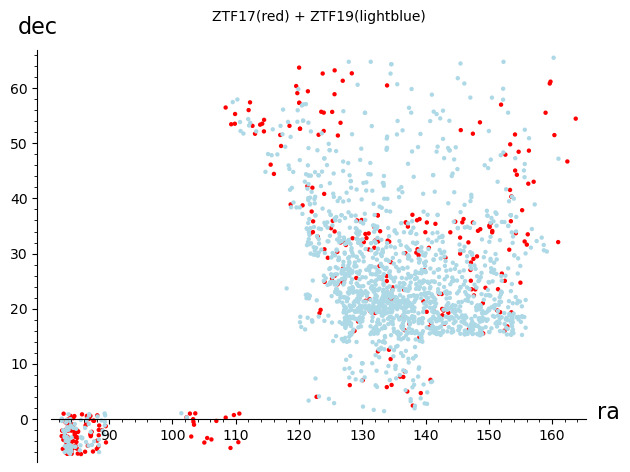
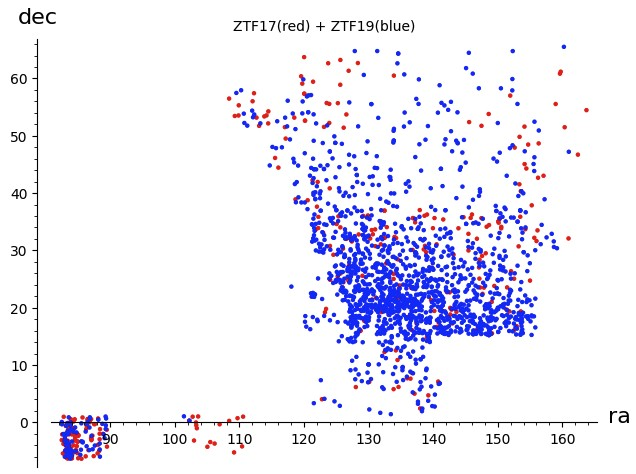
adding Gremlin client

diff --git a/src/index.html b/src/index.html
@@ -15,6 +15,7 @@
 
 <h2><a href="http://134.158.74.221:8080/FinkBrowser/?profile=ijclab&style=simple">Prototype running @IJCLab</a> (under development)</h2>
 <h2><a href="https://docs.google.com/presentation/d/1UYgqtNFuKWPObPGT4O81EOTkQ7F5_BaOiBp34Dw3yWk/edit?usp=sharing">What is it ?</a> (presentation)</h2>
+<hr/>
 
 <h2>Documentation</h2>
 
@@ -30,7 +31,7 @@
     <a href="http://www.jython.org">Jython</a> (for Jython client, optional),
     <a href="http://www.jpype.org">JPype</a> (for CPython client, optional),
     <a href="http://sagemath.org">Sage</a> (to perform math analyses, optional),
-    <a href="http://mathplotlib.org">Mathplotlib</a> (to perform math analyses, optional)</li>
+    <a href="http://matplotlib.org">MatPlotLib</a> (to perform math analyses, optional)</li>
 <li>Tools:
     <a href="https://ant.apache.org">Ant</a>,
     <a href="http://www.java2html.com">J2H</a>,
@@ -41,6 +42,7 @@
     <a href="https://code.google.com/archive/p/apiviz">ApiViz</a>,
     <a href="https://github.com/clarkware/jdepend">JDepend</a></li>
 </ul>
+<hr/>
 
 <h2><a name="Graph">Graph Schema</a></h2>
 Initial Graph contains:
@@ -49,6 +51,7 @@ AstroLabNet -has&gt; site -holds&gt; AlertsCollection -contains&gt; alert
 similarity -satr&gt; alert
 alert -exactmatch&gt; alert
 </pre>
+<hr/>
 
 <h2><a name="WebService">Web Service</a></h2>
 <table>
@@ -67,10 +70,12 @@ alert -exactmatch&gt; alert
 <li><tt>profile</tt> for initial calls (<tt>null, test, local, ijclab</tt>)</li>
 <li><tt>style</tt> for pane setup (<tt>null, test, simple</tt>)</li>
 </ul>
+<hr/>
 
 <h2><a name="CLI">Command Line</a></h2>
 Command line (executable Java) can be downloaded from the repository:
 <a href="http://cern.ch/hrivnac/Activities/Packages/FinkBrowser.exe.jar">FinkBrowser.exe.jar</a>.
+It serves as a foundation for all clients.
 <pre style="color:blue; font-size:60%; background-color:#eeeeee">
 $ java -jar FinkBrowser.exe.jar -h
 usage: java -jar Lomikel.exe.jar
@@ -82,7 +87,83 @@ usage: java -jar Lomikel.exe.jar
 </pre>
 It allows <a href="https://beanshell.github.io">BeanShell</a>/Java scripting, with Python and <a href="http://sagemath.org">SageMath</a> interface. 
 <br/>
+<h3>Access to HBase</h3>
 <u><b><a href="https://github.com/hrivnac/FinkBrowser/blob/master/src/bsh/testHBaseClient.bsh">BeanShell/Java example</a>:</b></u>
+<pre style="color:blue; font-size:60%; background-color:#dddddd">
+// Connect to HBase table
+//HBaseClient client = new HBaseClient("localhost", 2181);
+HBaseClient client = new HBaseClient("134.158.74.54", 2181);
+client.connect("test_portal_tiny.3", "schema_0.7.0_0.3.6");
+client.setLimit(100);
+
+// Get two known alerts (just one column) 
+// get 'test_portal', 'ZTF19aaoxpad_2458789.034838_152.294655_48.3441663', {COLUMNS => 'i:candid'}
+results = client.scan("ZTF17aaaaxyd_2458789.0426273,ZTF17aaaajdq_2458789.0297801",
+                      null,
+                      "i:candid,b:cutoutScience_stampData",
+                      0,
+                      false,
+                      false);
+print(client.results2String(results)); 
+
+// Get binary cell
+print(client.repository().get("binary:ZTF17aaaaxyd_2458789.0426273:cutoutScience_stampData"));
+
+
+// Get all alerts with row starting with 'ZTF19'
+// scan 'test_portal', {FILTER => "(PrefixFilter ('ZTF17'))", COLUMNS => 'i:candid', STARTROW => 'ZTF19', LIMIT => 10}
+// scan 'test_portal', {ROWPREFIXFILTER => 'ZTF19', COLUMNS => 'i:candid', LIMIT => 10}
+results = client.scan(null,
+                      "key:key:ZTF17",
+                      "i:candid",
+                      0,
+                      true,
+                      true);
+print(client.results2String(results)); 
+
+// Get timeline dependece of i:dec
+results = client.timeline("i:dec");
+print(client.results2String(results)); 
+
+// Get all recent (last 100000 minutes) objectIds
+results = client.latests("i:objectId",
+                         null,
+                         100000,
+                         true);
+print(results); 
+
+// Apply formula to filter results
+client.setEvaluation("isWithinGeoLimits(80, 85, -4.0, 0.0)", "ra,dec");
+//client.setEvaluation("dec < 10");
+results = client.scan(null,
+                      null,
+                      null,
+                      0,
+                      false,
+                      false);
+print(client.results2String(results)); 
+
+client.close();
+</pre>
+<u><b><a href="https://github.com/hrivnac/FinkBrowser/blob/master/src/python/testHBaseClient.jy">Jython example</a> (needs <a href="http://www.jython.org">Jython</a>):</b></u>
+<pre style="color:blue; font-size:60%; background-color:#dddddd">
+import sys
+
+# ../dist/FinkBrowser.exe.jar
+sys.path.append(sys.argv[1])
+
+from com.Lomikel.HBaser import HBaseClient
+
+#client = HBaseClient("localhost", 2181)
+client = HBaseClient("134.158.74.54", 2181);
+client.connect("test_portal_tiny.3", "schema_0.7.0_0.3.6")
+client.setLimit(10)
+
+print(client.scan(None, "key:key:ZTF17", None, 100000, True, True))
+
+client.close()
+</pre>
+<u><b><a href="https://github.com/hrivnac/FinkBrowser/blob/master/src/python/testHBaseClient.py">CPython example</a> (needs <a href="http://www.jpype.org">JPype</a>):</b></u>
 <pre style="color:blue; font-size:60%; background-color:#dddddd">
 import sys
 
@@ -108,27 +189,6 @@ print(client.scan(None, "key:key:ZTF17", None, 100000, true, true))
 client.close()
 
 jpype.shutdownJVM()
-</pre>
-<u><b><a href="https://github.com/hrivnac/FinkBrowser/blob/master/src/python/testHBaseClient.jy">Jython example</a> (needs <a href="http://www.jython.org">Jython</a>):</b></u>
-<pre style="color:blue; font-size:60%; background-color:#dddddd">
-import sys
-
-# ../dist/FinkBrowser.exe.jar
-sys.path.append(sys.argv[1])
-
-from com.Lomikel.HBaser import HBaseClient
-
-#client = HBaseClient("localhost", 2181)
-client = HBaseClient("134.158.74.54", 2181);
-client.connect("test_portal_tiny.3", "schema_0.7.0_0.3.6")
-client.setLimit(10)
-
-print(client.scan(None, "key:key:ZTF17", None, 100000, True, True))
-
-client.close()
-</pre>
-<u><b><a href="https://github.com/hrivnac/FinkBrowser/blob/master/src/python/testHBaseClient.py">CPython example</a> (needs <a href="http://www.jpype.org">JPype</a>):</b></u>
-<pre style="color:blue; font-size:60%; background-color:#dddddd">
 </pre>
 <u><b><a href="https://github.com/hrivnac/FinkBrowser/blob/master/src/python/testHBaseClient.sage">Sage example</a> (needs also <a href="http://sagemath.org">SageMath</a>):</b></u>
 <pre style="color:blue; font-size:60%; background-color:#dddddd">
@@ -158,15 +218,15 @@ for r in client.scan("", "key:key:ZTF17", "i:ra,i:dec", 100000, false, false).va
   a17 += [(float(r['i:ra']), float(r['i:dec']))];
 for r in client.scan("", "key:key:ZTF19", "i:ra,i:dec", 100000, false, false).values():
   a19 += [(float(r['i:ra']), float(r['i:dec']))];
-p = list_plot(a17, color='red') + list_plot(a19, color='lightblue');
-show(p, axes_labels = ('ra', 'dec'), title='ZTF17(red) + ZTF19(lightblue)');
+p = list_plot(a17, color='red') + list_plot(a19, color='blue');
+show(p, axes_labels = ('ra', 'dec'), title='ZTF17(red) + ZTF19(blue)');
 
 client.close();
 
 jpype.shutdownJVM()
 </pre>
-<a href="SageExample.jpg" ><img src="SageExample.jpg"  width="600"></a>
-<u><b><a href="https://github.com/hrivnac/FinkBrowser/blob/master/src/python/testHBaseClient_mathplotlib.py">CPython example with graphics</a> (needs also <a href="http://mathplotlib.org">MathPlotLib</a>):</b></u>
+<a href="SageExample.jpg" ><img src="SageExample.jpg"  width="400"></a><br/>
+<u><b><a href="https://github.com/hrivnac/FinkBrowser/blob/master/src/python/testHBaseClient_matplotlib.py">CPython example with graphics</a> (needs also <a href="http://matplotlib.org">MatPlotLib</a>):</b></u>
 <pre style="color:blue; font-size:60%; background-color:#dddddd">
 import sys
 
@@ -200,9 +260,9 @@ for r in client.scan("", "key:key:ZTF19", "i:ra,i:dec", 0, false, false).values(
   a19_x += [float(r['i:ra'])]
   a19_y += [float(r['i:dec'])]
 
-plt.plot(a17_x, a17_y, 'b.')
-plt.plot(a19_x, a19_y, 'r.')
-plt.title('ZTF17(red) + ZTF19(lightblue)')
+plt.plot(a17_x, a17_y, 'r.')
+plt.plot(a19_x, a19_y, 'b.')
+plt.title('ZTF17(red) + ZTF19(blue)')
 plt.xlabel('ra')
 plt.ylabel('dec')
 plt.show()
@@ -211,7 +271,36 @@ client.close()
 
 jpype.shutdownJVM()
 </pre>
-<a href="MathplotlibExample.jpg" ><img src="mathplotlibExample.jpg"  width="600"></a>
+<a href="MatplotlibExample.jpg" ><img src="MatplotlibExample.jpg"  width="400"></a>
+<h3>Access to JanusGraph</h3>
+<u><b><a href="https://github.com/hrivnac/FinkBrowser/blob/master/src/bsh/testGremlinClient.bsh">BeanShell/Java example</a>:</b></u>
+<pre style="color:blue; font-size:60%; background-color:#dddddd">
+// Connect to JanusGraph
+GremlinClient client = new GremlinClient("134.158.74.85", 24444);
+g = client.open();
+
+// Get properties of the first alert
+print(g.V().hasLabel('alert').limit(1).valueMap().next());
+
+client.close();
+</pre>
+<u><b><a href="https://github.com/hrivnac/FinkBrowser/blob/master/src/python/testGremlinClient.jy">Jython example</a> (needs <a href="http://www.jython.org">Jython</a>):</b></u>
+<pre style="color:blue; font-size:60%; background-color:#dddddd">
+import sys
+
+# ../dist/FinkBrowser.exe.jar
+sys.path.append(sys.argv[1])
+
+from com.Lomikel.Januser import GremlinClient
+
+client = GremlinClient("134.158.74.85", 24444);
+
+g = client.open();
+print(g.V().hasLabel('alert').limit(1).valueMap().next());
+
+client.close()
+</pre>
+<hr/>
 
 <h2><a name="Bugs-ToDos">Bugs, Inconsistencies and ToDos</a></h2>
 <b><u>Bugs</u></b>
@@ -226,7 +315,6 @@ jpype.shutdownJVM()
 <ul>
 <li>...</li>
 </ul>
-
 <hr/>
 
 <h2><a name="Releases">Release History</a></h2>
@@ -266,16 +354,17 @@ jpype.shutdownJVM()
     </ul></li>
 <li><u>*.*.*:</u>
     <ul>
-    <li>...</li>
+    <li>Included Gremlin client.</li>
     </ul></li>
 </ul>
+<hr/>
 
 <h2>Related Documentation</h2>
 <ul>
 <li><a href="http://cern.ch/hrivnac/Activities/Packages/Lomikel">Lomikel</a></li>
 </ul>
-
 <hr/>
+
 <img width="0" height="0" src="http://cern.ch/hrivnac/cgi-bin/record.pl?page=FinkBrowser"> 
 <address>
 <a href="http://cern.ch/hrivnac">J.Hrivnac</a> @BUILD@

diff --git a/src/java/com/astrolabsoftware/FinkBrowser/Apps/CLI.java b/src/java/com/astrolabsoftware/FinkBrowser/Apps/CLI.java
@@ -37,20 +37,6 @@ public class CLI extends com.Lomikel.Apps.CLI {
     
   @Override
   public void setupInterpreter() {
-    try {
-      interpreter().eval("import com.Lomikel.HBaser.HBaseClient");
-      }
-    catch (EvalError e) {
-      log.error("Cannot load com.Lomikel.HBaser.HBaseClient");
-      log.debug("Cannot load com.Lomikel.HBaser.HBaseClient", e);
-      }
-    try {
-      interpreter().eval("import com.Lomikel.Januser.JanusClient");
-      }
-    catch (EvalError e) {
-      log.error("Cannot load com.Lomikel.Januser.JanusClient");
-      log.debug("Cannot load com.Lomikel.Januser.JanusClient", e);
-      }
     super.setupInterpreter();
     }
 
